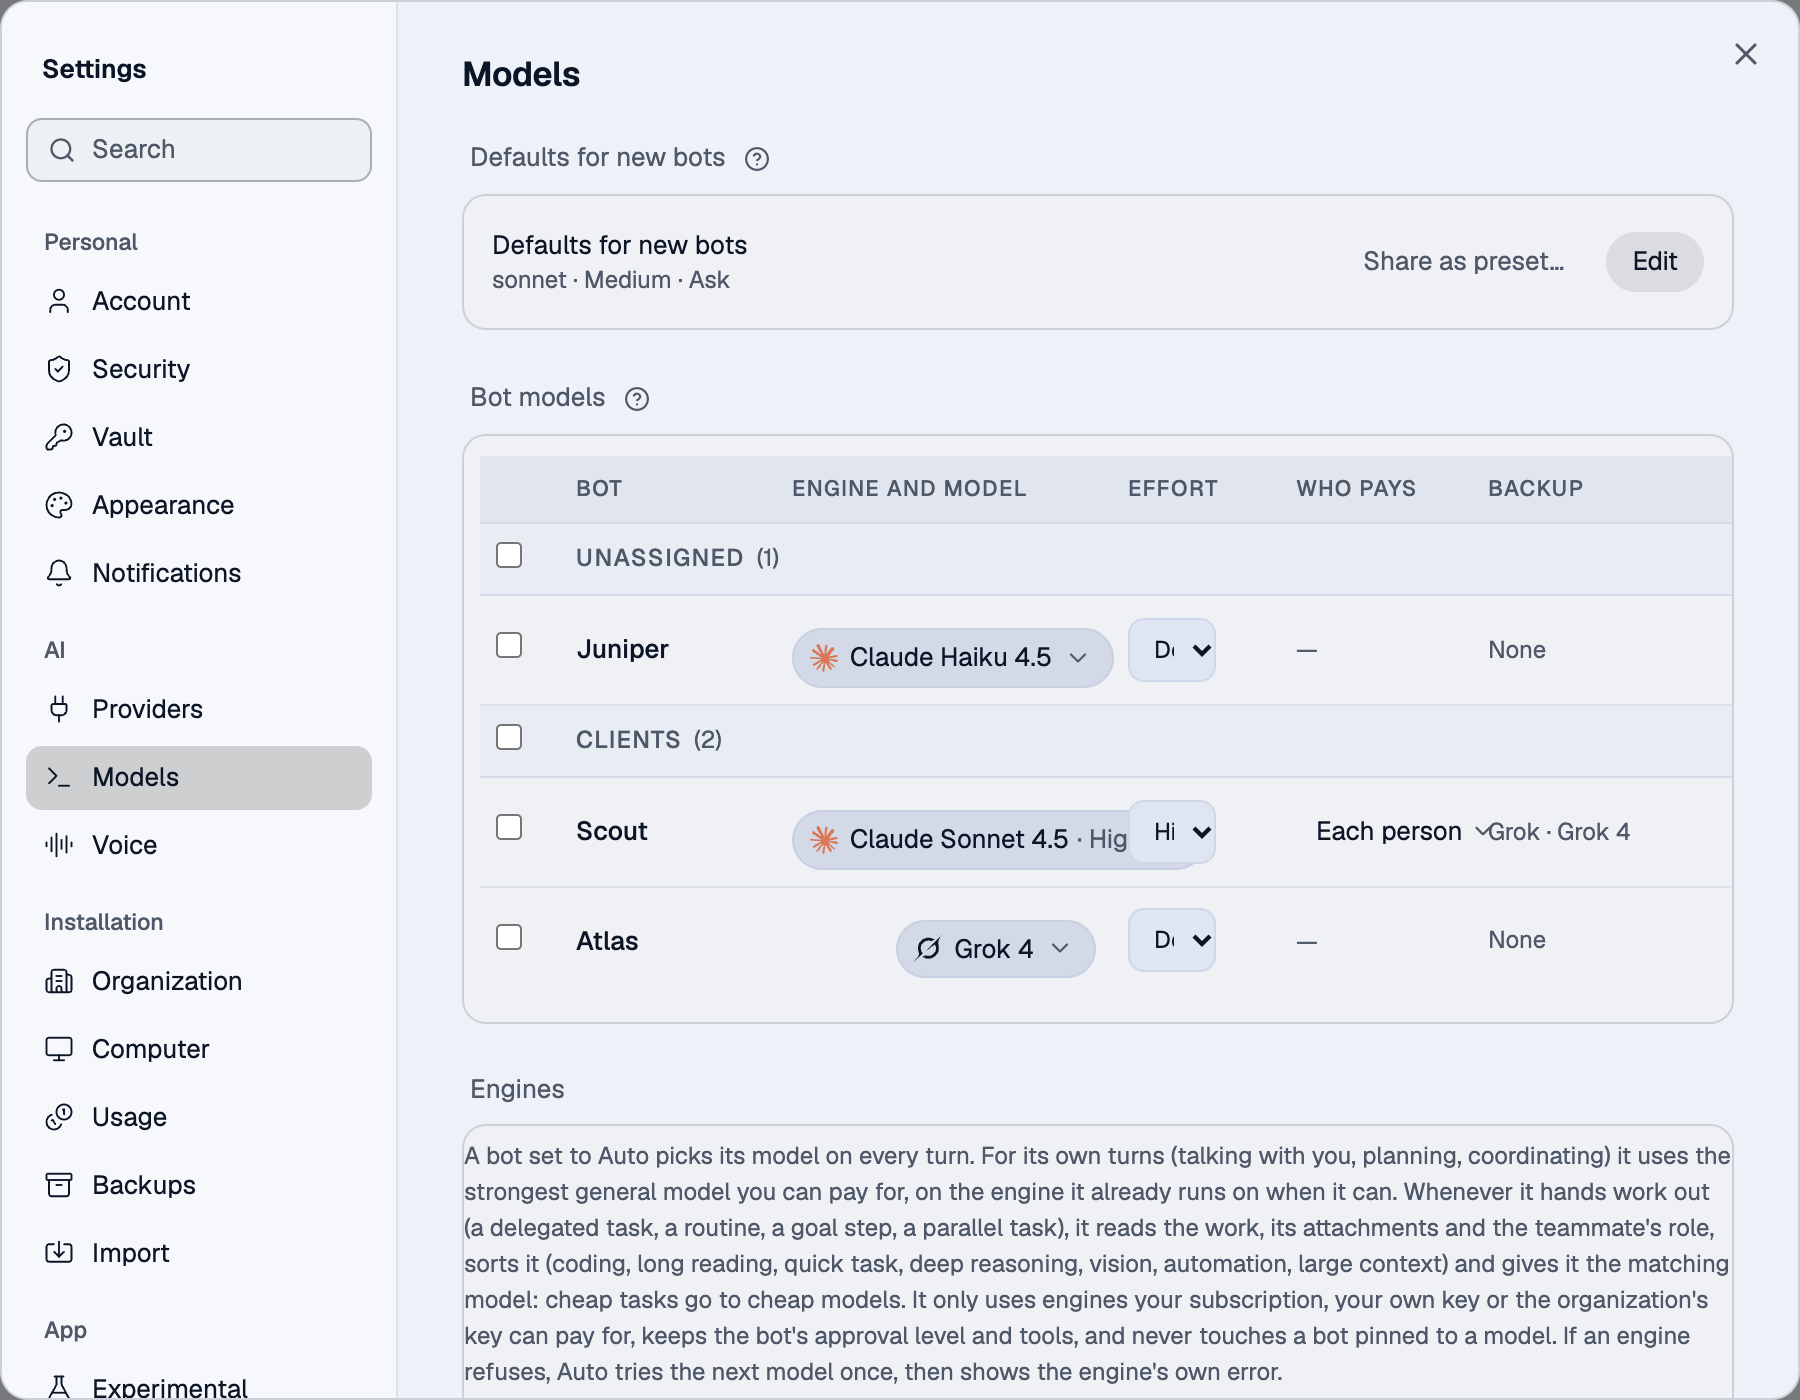
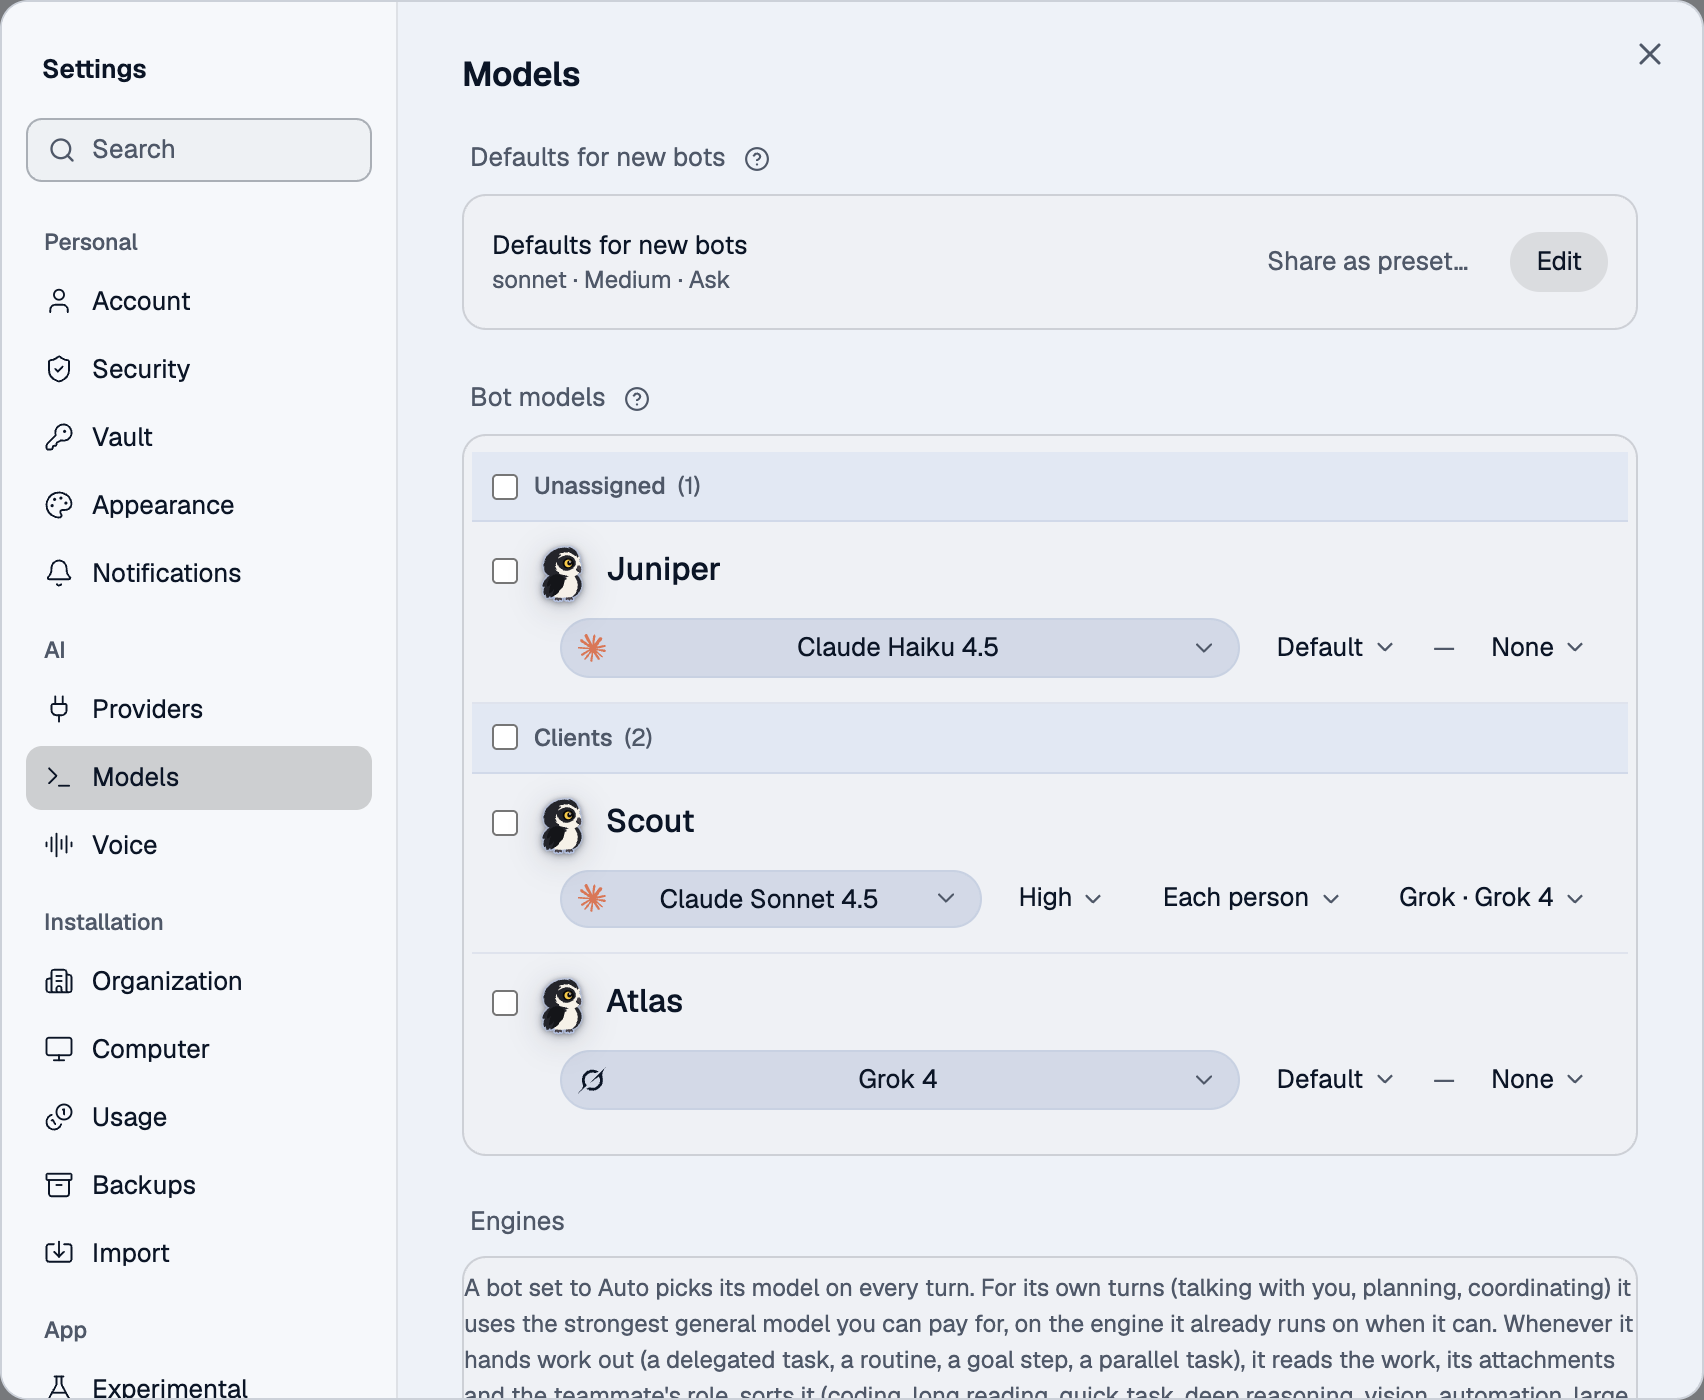
docs(screenshots): refresh Bot models list captures
Synthetic gallery shots at Settings width and narrow after the list redesign.

diff --git a/docs/screenshots/bot-models-page/README.md b/docs/screenshots/bot-models-page/README.md
@@ -1,26 +1,28 @@
 # Bot models page (#1675)
 
 Headless captures of Settings > Models > Bot models. Synthetic gallery data
-only (`src/gallery/settings-pages.html?section=engines&org=1&providers=1`).
+only (`src/gallery/settings-pages.html?section=engines&providers=1`).
 
 Generated by:
 
 ```bash
-node scripts/capture-bot-models-page.mjs --width 1338 --prefix after
-node scripts/capture-bot-models-page.mjs --width 700 --prefix after-narrow
+node scripts/capture-bot-models-page.mjs --width 900 --prefix after
+node scripts/capture-bot-models-page.mjs --width 640 --prefix after-narrow
 ```
 
-Sizes: 1338 (desktop) and 700 (narrow). One shared `table-fixed` + `colgroup`
-so Engine / Effort / Who pays / Backup line up across sidebar sections.
+Sizes: 900 (Settings window) and 640 (narrow). Layout is a two-line list
+(avatar + name, then model pill and popover controls) so nothing overlaps
+from 600px up. Capture asserts zero control overlaps and no native effort
+selects.
 
 | Shot | File | What it shows |
 |---|---|---|
-| Page | `after-1-page.png` | Defaults (when solo) and the shared bots table with section header rows |
+| Page | `after-1-page.png` | Defaults (when solo) and the bots list with section headers |
 | Section selected | `after-2-section-selected.png` | Whole Clients section selected, bulk bar visible |
 | Bulk confirm | `after-3-bulk-confirm.png` | Confirmation summary before applying Auto to the selection |
-| Narrow page | `after-narrow-1-page.png` | Same page at 700px width |
+| Narrow page | `after-narrow-1-page.png` | Same page at 640px width |
 
 `after-capture.json` / `after-narrow-capture.json` record DOM facts (row ids,
-sections, bulk lines, shared table, column alignment across sections).
+sections, bulk lines, list marker, overlap hits).
 
 No live user data. No `.ref/` third-party captures.
